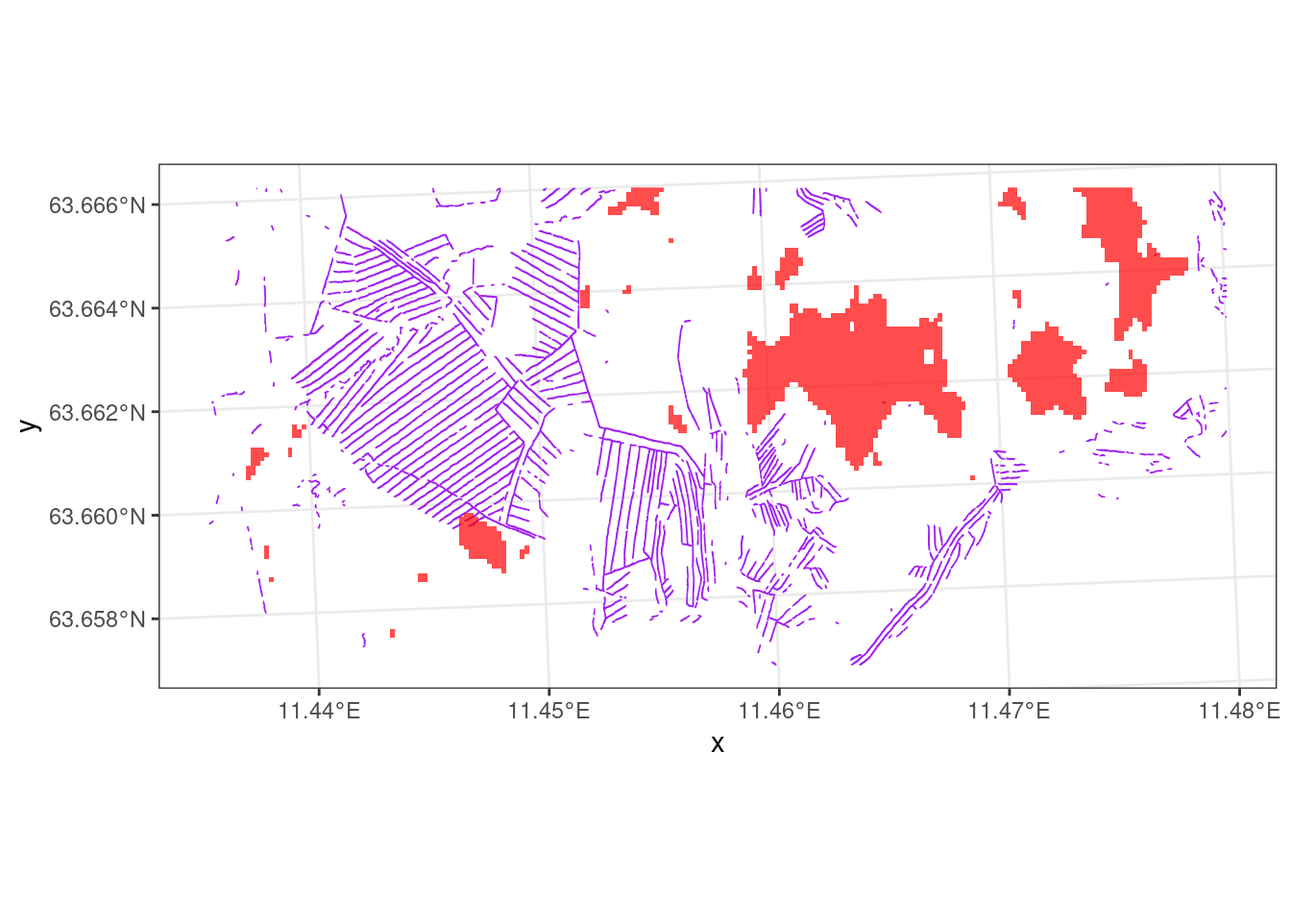
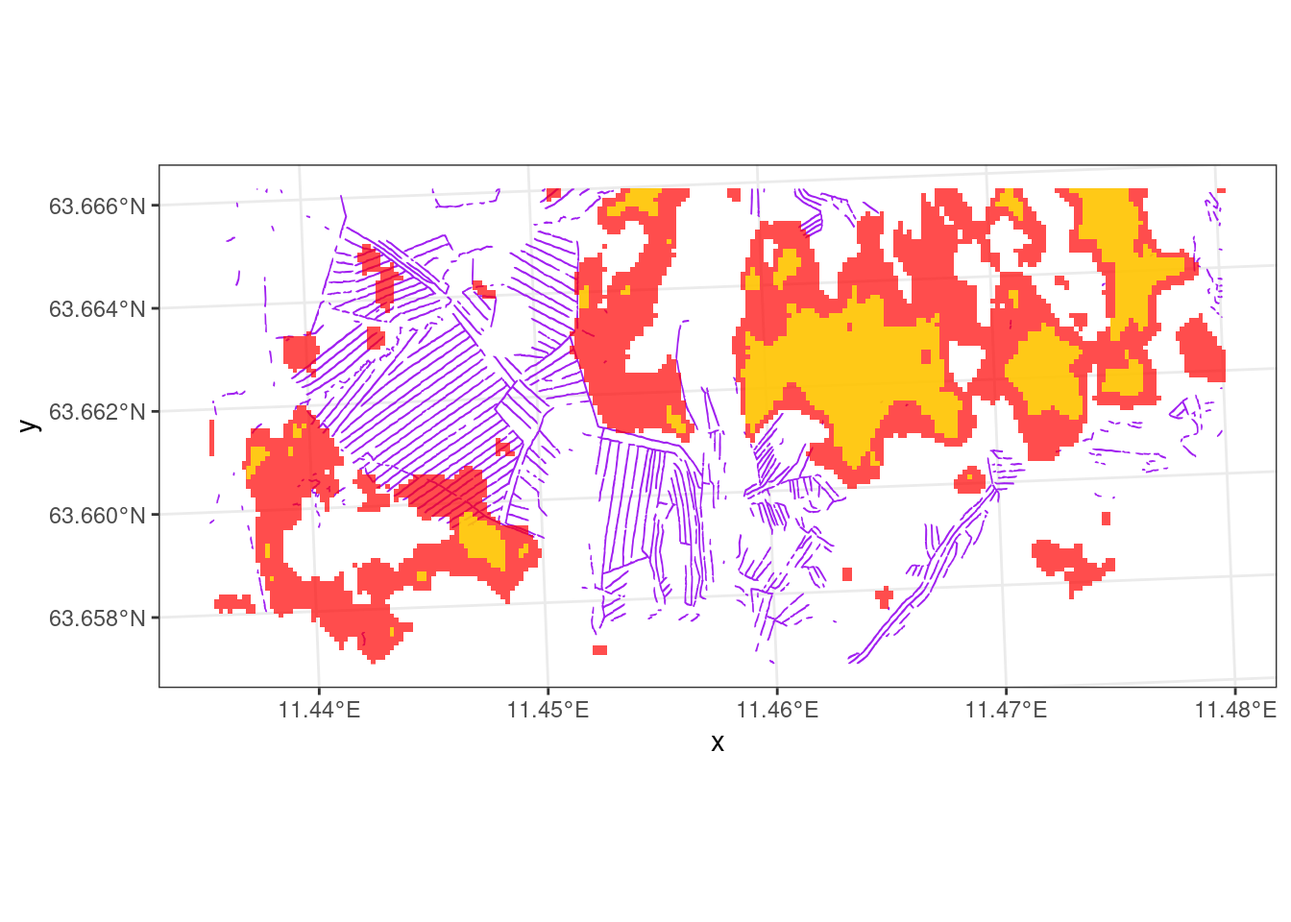
Built site for gh-pages

diff --git a/study-area.html b/study-area.html
@@ -276,20 +276,56 @@ Figure&nbsp;2.1: “Map of study area in Levanger, central Norway, showing trenc
 <span><span class="co"># and exported a section of it as geoTIFF</span></span>
 <span><span class="co"># Raster GBD is not readable in R with GDAL &lt;3.7</span></span>
 <span><span class="va">path</span> <span class="op">&lt;-</span> <span class="st">"P:/41201785_okologisk_tilstand_2022_2023/data/Myrmodell/myrmodell_levanger.tif"</span></span>
-<span><span class="va">mire</span> <span class="op">&lt;-</span> <span class="fu">stars</span><span class="fu">::</span><span class="fu"><a href="https://r-spatial.github.io/stars/reference/read_stars.html">read_stars</a></span><span class="op">(</span><span class="va">path</span><span class="op">)</span> <span class="op">|&gt;</span></span>
+<span><span class="va">mire90</span> <span class="op">&lt;-</span> <span class="fu">stars</span><span class="fu">::</span><span class="fu"><a href="https://r-spatial.github.io/stars/reference/read_stars.html">read_stars</a></span><span class="op">(</span><span class="va">path</span><span class="op">)</span> <span class="op">|&gt;</span></span>
 <span>  <span class="fu">st_crop</span><span class="op">(</span><span class="va">lev_bb</span><span class="op">)</span> <span class="op">|&gt;</span> </span>
 <span>  <span class="fu"><a href="https://rdrr.io/r/stats/setNames.html">setNames</a></span><span class="op">(</span><span class="st">"prob"</span><span class="op">)</span> <span class="op">|&gt;</span></span>
 <span>  <span class="fu">mutate</span><span class="op">(</span>prob <span class="op">=</span> <span class="fu">case_when</span><span class="op">(</span></span>
 <span>    <span class="va">prob</span> <span class="op">&gt;</span> <span class="fl">900</span> <span class="op">~</span> <span class="fl">1</span>,</span>
 <span>    <span class="cn">TRUE</span> <span class="op">~</span> <span class="cn">NA</span></span>
 <span>  <span class="op">)</span><span class="op">)</span></span>
-<span><span class="fu">stars</span><span class="fu">::</span><span class="fu"><a href="https://r-spatial.github.io/stars/reference/write_stars.html">write_stars</a></span><span class="op">(</span><span class="va">mire</span>, <span class="st">"data/mire_levanger_reclassified.tif"</span><span class="op">)</span></span>
-<span><span class="fu"><a href="https://rdrr.io/r/base/readRDS.html">saveRDS</a></span><span class="op">(</span><span class="va">mire</span>, <span class="st">"data/mire_levanger_reclassified.rds"</span><span class="op">)</span></span></code><button title="Copy to Clipboard" class="code-copy-button"><i class="bi"></i></button></pre></div>
+<span><span class="fu">stars</span><span class="fu">::</span><span class="fu"><a href="https://r-spatial.github.io/stars/reference/write_stars.html">write_stars</a></span><span class="op">(</span><span class="va">mire90</span>, <span class="st">"data/mire_levanger_reclassified90.tif"</span><span class="op">)</span></span>
+<span><span class="fu"><a href="https://rdrr.io/r/base/readRDS.html">saveRDS</a></span><span class="op">(</span><span class="va">mire90</span>, <span class="st">"data/mire_levanger_reclassified90.rds"</span><span class="op">)</span></span>
+<span></span>
+<span><span class="va">mire70</span> <span class="op">&lt;-</span> <span class="fu">stars</span><span class="fu">::</span><span class="fu"><a href="https://r-spatial.github.io/stars/reference/read_stars.html">read_stars</a></span><span class="op">(</span><span class="va">path</span><span class="op">)</span> <span class="op">|&gt;</span></span>
+<span>  <span class="fu">st_crop</span><span class="op">(</span><span class="va">lev_bb</span><span class="op">)</span> <span class="op">|&gt;</span> </span>
+<span>  <span class="fu"><a href="https://rdrr.io/r/stats/setNames.html">setNames</a></span><span class="op">(</span><span class="st">"prob"</span><span class="op">)</span> <span class="op">|&gt;</span></span>
+<span>  <span class="fu">mutate</span><span class="op">(</span>prob <span class="op">=</span> <span class="fu">case_when</span><span class="op">(</span></span>
+<span>    <span class="va">prob</span> <span class="op">&gt;</span> <span class="fl">700</span> <span class="op">~</span> <span class="fl">1</span>,</span>
+<span>    <span class="cn">TRUE</span> <span class="op">~</span> <span class="cn">NA</span></span>
+<span>  <span class="op">)</span><span class="op">)</span></span>
+<span><span class="fu">stars</span><span class="fu">::</span><span class="fu"><a href="https://r-spatial.github.io/stars/reference/write_stars.html">write_stars</a></span><span class="op">(</span><span class="va">mire70</span>, <span class="st">"data/mire_levanger_reclassified70.tif"</span><span class="op">)</span></span>
+<span><span class="fu"><a href="https://rdrr.io/r/base/readRDS.html">saveRDS</a></span><span class="op">(</span><span class="va">mire70</span>, <span class="st">"data/mire_levanger_reclassified70.rds"</span><span class="op">)</span></span>
+<span></span>
+<span><span class="va">mire50</span> <span class="op">&lt;-</span> <span class="fu">stars</span><span class="fu">::</span><span class="fu"><a href="https://r-spatial.github.io/stars/reference/read_stars.html">read_stars</a></span><span class="op">(</span><span class="va">path</span><span class="op">)</span> <span class="op">|&gt;</span></span>
+<span>  <span class="fu">st_crop</span><span class="op">(</span><span class="va">lev_bb</span><span class="op">)</span> <span class="op">|&gt;</span> </span>
+<span>  <span class="fu"><a href="https://rdrr.io/r/stats/setNames.html">setNames</a></span><span class="op">(</span><span class="st">"prob"</span><span class="op">)</span> <span class="op">|&gt;</span></span>
+<span>  <span class="fu">mutate</span><span class="op">(</span>prob <span class="op">=</span> <span class="fu">case_when</span><span class="op">(</span></span>
+<span>    <span class="va">prob</span> <span class="op">&gt;</span> <span class="fl">500</span> <span class="op">~</span> <span class="fl">1</span>,</span>
+<span>    <span class="cn">TRUE</span> <span class="op">~</span> <span class="cn">NA</span></span>
+<span>  <span class="op">)</span><span class="op">)</span></span>
+<span><span class="fu">stars</span><span class="fu">::</span><span class="fu"><a href="https://r-spatial.github.io/stars/reference/write_stars.html">write_stars</a></span><span class="op">(</span><span class="va">mire50</span>, <span class="st">"data/mire_levanger_reclassified50.tif"</span><span class="op">)</span></span>
+<span><span class="fu"><a href="https://rdrr.io/r/base/readRDS.html">saveRDS</a></span><span class="op">(</span><span class="va">mire50</span>, <span class="st">"data/mire_levanger_reclassified50.rds"</span><span class="op">)</span></span>
+<span></span>
+<span><span class="va">mire10</span> <span class="op">&lt;-</span> <span class="fu">stars</span><span class="fu">::</span><span class="fu"><a href="https://r-spatial.github.io/stars/reference/read_stars.html">read_stars</a></span><span class="op">(</span><span class="va">path</span><span class="op">)</span> <span class="op">|&gt;</span></span>
+<span>  <span class="fu">st_crop</span><span class="op">(</span><span class="va">lev_bb</span><span class="op">)</span> <span class="op">|&gt;</span> </span>
+<span>  <span class="fu"><a href="https://rdrr.io/r/stats/setNames.html">setNames</a></span><span class="op">(</span><span class="st">"prob"</span><span class="op">)</span> <span class="op">|&gt;</span></span>
+<span>  <span class="fu">mutate</span><span class="op">(</span>prob <span class="op">=</span> <span class="fu">case_when</span><span class="op">(</span></span>
+<span>    <span class="va">prob</span> <span class="op">&gt;</span> <span class="fl">100</span> <span class="op">~</span> <span class="fl">1</span>,</span>
+<span>    <span class="cn">TRUE</span> <span class="op">~</span> <span class="cn">NA</span></span>
+<span>  <span class="op">)</span><span class="op">)</span></span>
+<span><span class="fu">stars</span><span class="fu">::</span><span class="fu"><a href="https://r-spatial.github.io/stars/reference/write_stars.html">write_stars</a></span><span class="op">(</span><span class="va">mire10</span>, <span class="st">"data/mire_levanger_reclassified10.tif"</span><span class="op">)</span></span>
+<span><span class="fu"><a href="https://rdrr.io/r/base/readRDS.html">saveRDS</a></span><span class="op">(</span><span class="va">mire10</span>, <span class="st">"data/mire_levanger_reclassified10.rds"</span><span class="op">)</span></span></code><button title="Copy to Clipboard" class="code-copy-button"><i class="bi"></i></button></pre></div>
 </details>
 </div>
 <div class="cell">
-<details class="code-fold"><summary>Read mire data</summary><div class="sourceCode" id="cb9"><pre class="downlit sourceCode r code-with-copy"><code class="sourceCode R"><span><span class="va">mire</span> <span class="op">&lt;-</span> <span class="fu"><a href="https://rdrr.io/r/base/readRDS.html">readRDS</a></span><span class="op">(</span><span class="st">"data/mire_levanger_reclassified.rds"</span><span class="op">)</span></span>
-<span><span class="va">mire_crop</span> <span class="op">&lt;-</span> <span class="va">mire</span> <span class="op">|&gt;</span></span>
+<details class="code-fold"><summary>Read mire data</summary><div class="sourceCode" id="cb9"><pre class="downlit sourceCode r code-with-copy"><code class="sourceCode R"><span><span class="co">#90% probability</span></span>
+<span><span class="va">mire90</span> <span class="op">&lt;-</span> <span class="fu"><a href="https://rdrr.io/r/base/readRDS.html">readRDS</a></span><span class="op">(</span><span class="st">"data/mire_levanger_reclassified90.rds"</span><span class="op">)</span></span>
+<span><span class="va">mire90_crop</span> <span class="op">&lt;-</span> <span class="va">mire90</span> <span class="op">|&gt;</span></span>
+<span>  <span class="fu">st_crop</span><span class="op">(</span><span class="fu">st_bbox</span><span class="op">(</span><span class="va">lev_crop</span><span class="op">)</span><span class="op">)</span></span>
+<span></span>
+<span><span class="co">#10% probability</span></span>
+<span><span class="va">mire10</span> <span class="op">&lt;-</span> <span class="fu"><a href="https://rdrr.io/r/base/readRDS.html">readRDS</a></span><span class="op">(</span><span class="st">"data/mire_levanger_reclassified10.rds"</span><span class="op">)</span></span>
+<span><span class="va">mire10_crop</span> <span class="op">&lt;-</span> <span class="va">mire10</span> <span class="op">|&gt;</span></span>
 <span>  <span class="fu">st_crop</span><span class="op">(</span><span class="fu">st_bbox</span><span class="op">(</span><span class="va">lev_crop</span><span class="op">)</span><span class="op">)</span></span></code><button title="Copy to Clipboard" class="code-copy-button"><i class="bi"></i></button></pre></div>
 </details>
 </div>
@@ -298,14 +334,21 @@ Figure&nbsp;2.1: “Map of study area in Levanger, central Norway, showing trenc
 <span>  <span class="fu">geom_sf</span><span class="op">(</span>data <span class="op">=</span> <span class="va">lev_crop</span>,</span>
 <span>          fill <span class="op">=</span> <span class="st">"purple"</span>,</span>
 <span>          color <span class="op">=</span> <span class="st">"purple"</span><span class="op">)</span> <span class="op">+</span></span>
-<span>  <span class="fu">geom_stars</span><span class="op">(</span>data <span class="op">=</span> <span class="va">mire_crop</span>,</span>
+<span>  <span class="fu">geom_stars</span><span class="op">(</span>data <span class="op">=</span> <span class="va">mire10_crop</span>,</span>
 <span>             downsample <span class="op">=</span> <span class="fl">0</span>,</span>
 <span>             fill <span class="op">=</span> <span class="st">"red"</span>,</span>
+<span>             na.action <span class="op">=</span> <span class="va">na.omit</span>,</span>
+<span>             alpha<span class="op">=</span><span class="fl">.7</span><span class="op">)</span><span class="op">+</span></span>
+<span>  <span class="fu">geom_stars</span><span class="op">(</span>data <span class="op">=</span> <span class="va">mire90_crop</span>,</span>
+<span>             downsample <span class="op">=</span> <span class="fl">0</span>,</span>
+<span>             fill <span class="op">=</span> <span class="st">"yellow"</span>,</span>
 <span>             na.action <span class="op">=</span> <span class="va">na.omit</span>,</span>
 <span>             alpha<span class="op">=</span><span class="fl">.7</span><span class="op">)</span><span class="op">+</span></span>
 <span>  <span class="fu">theme_bw</span><span class="op">(</span><span class="op">)</span></span></code><button title="Copy to Clipboard" class="code-copy-button"><i class="bi"></i></button></pre></div>
 </details><div class="cell-output cell-output-stderr">
 <pre><code>Warning: Raster pixels are placed at uneven horizontal intervals and will be shifted
+ℹ Consider using `geom_tile()` instead.
+Raster pixels are placed at uneven horizontal intervals and will be shifted
 ℹ Consider using `geom_tile()` instead.
 Raster pixels are placed at uneven horizontal intervals and will be shifted
 ℹ Consider using `geom_tile()` instead.</code></pre>
@@ -316,7 +359,7 @@ Raster pixels are placed at uneven horizontal intervals and will be shifted
 <img src="study-area_files/figure-html/fig-map2-1.png" class="img-fluid figure-img" width="672">
 </div>
 <figcaption class="quarto-float-caption-bottom quarto-float-caption quarto-float-fig" id="fig-map2-caption-0ceaefa1-69ba-4598-a22c-09a6ac19f8ca">
-Figure&nbsp;2.2: “Zoomed in version of the previsous map showing systematic trenching, but also more sporadic trenches that might be errors in the model. The red areas are open mires. Note that most of the trenches are located in other nature types, mosty forests.”
+Figure&nbsp;2.2: “Zoomed in version of the previsous map showing systematic trenching, but also more sporadic trenches that might be errors in the model. The red areas are open mires with 10% probability. Yellow areas are mires with 90% probability. From areal photos, the 10% probability seem to match best. Note in any case that most of the trenches are located in other nature types, mosty forests.”
 </figcaption></figure>
 </div>
 </div>

diff --git a/metrics.html b/metrics.html
@@ -21,7 +21,27 @@ ul.task-list li input[type="checkbox"] {
   margin: 0 0.8em 0.2em -1em; /* quarto-specific, see https://github.com/quarto-dev/quarto-cli/issues/4556 */ 
   vertical-align: middle;
 }
-</style>
+/* CSS for citations */
+div.csl-bib-body { }
+div.csl-entry {
+  clear: both;
+  margin-bottom: 0em;
+}
+.hanging-indent div.csl-entry {
+  margin-left:2em;
+  text-indent:-2em;
+}
+div.csl-left-margin {
+  min-width:2em;
+  float:left;
+}
+div.csl-right-inline {
+  margin-left:2em;
+  padding-left:1em;
+}
+div.csl-indent {
+  margin-left: 2em;
+}</style>
 
 
 <script src="site_libs/quarto-nav/quarto-nav.js"></script>
@@ -174,7 +194,11 @@ ul.task-list li input[type="checkbox"] {
    
   <ul>
   <li><a href="#sec-fbm" id="toc-sec-fbm" class="nav-link active" data-scroll-target="#sec-fbm"><span class="header-section-number">4.1</span> Frequency-based metrics</a></li>
-  <li><a href="#length-based-metrics" id="toc-length-based-metrics" class="nav-link" data-scroll-target="#length-based-metrics"><span class="header-section-number">4.2</span> Length based metrics</a></li>
+  <li><a href="#length-based-metrics" id="toc-length-based-metrics" class="nav-link" data-scroll-target="#length-based-metrics"><span class="header-section-number">4.2</span> Length based metrics</a>
+  <ul class="collapse">
+  <li><a href="#area-based-metric" id="toc-area-based-metric" class="nav-link" data-scroll-target="#area-based-metric"><span class="header-section-number">4.2.1</span> Area-based metric</a></li>
+  </ul></li>
+  <li><a href="#scalability" id="toc-scalability" class="nav-link" data-scroll-target="#scalability"><span class="header-section-number">4.3</span> Scalability</a></li>
   </ul>
 <div class="toc-actions"><ul><li><a href="https://github.com/NINAnor/mire-trenching/edit/main/metrics.qmd" class="toc-action"><i class="bi bi-github"></i>Edit this page</a></li></ul></div></nav>
     </div>
@@ -206,11 +230,12 @@ ul.task-list li input[type="checkbox"] {
 <li>interpretable</li>
 <li>updatable</li>
 <li>area explicit</li>
+<li>scalable (optional)</li>
 </ul>
 <p>It can be based on for example on some variation using the the length or frequency of trenches. The area of trenches is less suitable, as trenches are in reality linear elements even though we represent them here as polygons. The polygons could be turned into line elements, for example by finding the central lines using ET Geowizards. However, this is computationally heavy, and we think that the length of the trenches can be reasonably approximated using half the circumference, minus a small penalty. The density of trenches is also less suitable as the individual polygons are somewhat arbitrarily separated.</p>
 <section id="sec-fbm" class="level2" data-number="4.1">
 <h2 data-number="4.1" class="anchored" data-anchor-id="sec-fbm"><span class="header-section-number">4.1</span> Frequency-based metrics</h2>
-<p>The frequency of trenches can be measured in many ways and at amny different scales. One way is to use the NiN variable called <code>7TK</code> and the measurement scale <code>A4b</code> (ref). This approach consists of gridding the entire study region into 10𝖷10 m cells, and then categorizing the cells as having or not having trenches. The frequency of grid cells with trenches determines the variable value.</p>
+<p>The frequency of trenches can be measured in many ways and at amny different scales. One way is to use the NiN variable called <code>7TK</code> and the measurement scale <code>A4b</code> <span class="citation" data-cites="runehalvorsen2019">Rune Halvorsen and Harald Bratli (<a href="#ref-runehalvorsen2019" role="doc-biblioref">2019</a>)</span> . This approach consists of gridding the entire study region into 10𝖷10 m cells, and then categorizing the cells as having or not having trenches. The frequency of grid cells with trenches determines the variable value.</p>
 <p>The upper and lower reference values for the variable is probably best defined using the natural value of 0% and 100%, respectively. However, the rescaling of the variable into an indicator should probably follow some non-linear function, potentially aided by a threshold value representing the value of the variable that defines the separation distinction good and bad ecosystem condition (ref). Expert opinion, possibly aided by real word data or visual aids such as areal photos of areas with different variable value, could be used to set this threshold value.</p>
 <p>A different option for a frequency-based metric include counting the proportion of mire units (e.g.&nbsp;hydrological units) that are affected by trenching. This approach require that we know the population of mire units, or that we have a good, balanced sample of such units, to base our metric on. We do not have this currently. Secondly, the metric, as is it described here, becomes quite sensible to errors in the trenching model, and would probably require setting some (arbitrary) threshold value for the <em>severity</em> of trenching on each mire unit.</p>
 </section>
@@ -218,8 +243,22 @@ ul.task-list li input[type="checkbox"] {
 <h2 data-number="4.2" class="anchored" data-anchor-id="length-based-metrics"><span class="header-section-number">4.2</span> Length based metrics</h2>
 <p>As describes earlier, the length of trenches, and therefore also the accumulated length for any given area, may be approximated by using half the circumference of the trenching polygons (minus some small penalty). This metric is very simple and easily interpretable. The metric is also ecologically relevant, as the length of trenches is probably among the metrices that best explain the impact of trenching on the landscape (in combination with the depth of the trenches, but this is not something we have data on currently).</p>
 <p>The upper reference value must be defined as 0 m of trenches. The lower reference value is not obvious, nor the threshold value. These cold be defined using expert opinion, as described for <a href="#sec-fbm" class="quarto-xref"><span>Section 4.1</span></a>.</p>
+<section id="area-based-metric" class="level3" data-number="4.2.1">
+<h3 data-number="4.2.1" class="anchored" data-anchor-id="area-based-metric"><span class="header-section-number">4.2.1</span> Area-based metric</h3>
+<p>The area affected by trenching can perhaps be estimated by adding a buffer on the trenching polygons. The area affected by trenching as a proportion of the total mire area is a nice and simple concept for an indicator. The challenge is how to define the buffer. 10 m buffers have been used in the past. However, the size of the effect from a trench decreases non-linearly from the center of the ditch, and the length of the effect zone will depend a lot on the local typography. Ditches at the bottom of sloping mires will be more effective at draining water from the mire than a trench located near the top. Perhaps information about sloe could be included in the calculation of buffer widths?</p>
+</section>
+</section>
+<section id="scalability" class="level2" data-number="4.3">
+<h2 data-number="4.3" class="anchored" data-anchor-id="scalability"><span class="header-section-number">4.3</span> Scalability</h2>
+<p>The metric chosen to inform the indicator on trenching should idealy be scalable, meaning it can be calculated or interpreted at different scale. The indicator might be useful for regional assessment of wetland condition, as well as in local or project scale assessment, for example in association with environmental impact assessments for new building projects.</p>
+<p>I believe the three methods describe above all all scalable and could be used at local scales as well as regional scale (which is the main focus here).</p>
 
 
+<div id="refs" class="references csl-bib-body hanging-indent" data-entry-spacing="0" role="list">
+<div id="ref-runehalvorsen2019" class="csl-entry" role="listitem">
+Rune Halvorsen, and Harald Bratli. 2019. Dokumentasjon av NiN versjon 2.2 tilrettelagt for praktisk naturkartlegging: Utvalgte variabler fra beskrivelsessystemet. <span></span> natur i norge, artikkel 11 (versjon 2.2.0).
+</div>
+</div>
 </section>
 
 </main> <!-- /main -->

diff --git a/delineation.html b/delineation.html
@@ -182,7 +182,7 @@ ul.task-list li input[type="checkbox"] {
 
 <header id="title-block-header" class="quarto-title-block default">
 <div class="quarto-title">
-<h1 class="title"><span class="chapter-number">3</span>&nbsp; <span class="chapter-title">Delineation</span></h1>
+<h1 class="title"><span id="sec-delineation" class="quarto-section-identifier"><span class="chapter-number">3</span>&nbsp; <span class="chapter-title">Delineation</span></span></h1>
 </div>
 
 
@@ -201,8 +201,21 @@ ul.task-list li input[type="checkbox"] {
 
 <section id="the-importance-of-the-ecosystem-accounting-area" class="level2" data-number="3.1">
 <h2 data-number="3.1" class="anchored" data-anchor-id="the-importance-of-the-ecosystem-accounting-area"><span class="header-section-number">3.1</span> The importance of the ecosystem accounting area</h2>
-<p>We presented a study area of <code>r round(myx*myy/10^6)</code> km<sup>2</sup>. However, for the purpose of an ecosystem condition account or assessment, this area needs to be partitioned into unique and non-overlapping ecosystems, and our indicator needs to address the ecosystem condition the target ecosystem explicitly. The ecosystem that this indicator is aimed at is wetlands, or <em>våtmark</em> in Norwegian. We therefore need to mask our spatial data at some stage in order to exclude trenches identified in other ecosystems. However, this is problematic for several reasons. First, we do not have an official ecosystem delineation map, and it is not yet clear if the ecosystem should be defined as all types of wetlands, or just open wetlands. In the case of the latter, we have a quite good ecosystem map that we can use. But in doing so, we automatically exclude wetlands, or previous wetlands, that have become forested due to the lowered water table that comes from trenching. In other words, we exclude the areas that are in the worst condition.</p>
-<p>This is a well known issue in ecosystem accounting (ref Jacobson). In the following we decide to strictly follow the UN standard for ecosystem accounting and only focus on the open mires. However, in the future, if the target ecosystem becomes defined as to include forested mires, then it is not a problem to update this indicator to include such areas as well.</p>
+<p>We presented a study area that is practically square (<a href="study-area.html#fig-map1" class="quarto-xref">Figure&nbsp;<span>2.1</span></a>). However, for the purpose of an ecosystem condition account or assessment, this area needs to be partitioned into unique and non-overlapping ecosystems, and our indicator needs to address the ecosystem condition the target ecosystem explicitly. The ecosystem that this indicator is aimed at is wetlands, or <em>våtmark</em> in Norwegian.</p>
+<p>We might therefore need to mask our spatial data at some stage in order to exclude trenches identified in other ecosystems. However, this is problematic for several reasons.</p>
+<p>First, we do not have an official ecosystem delineation map, and it is not yet clear if the ecosystem should be defined as all types of wetlands, or just open wetlands. In the case of the latter, we have a quite good ecosystem map that we can use (<a href="study-area.html#fig-map2" class="quarto-xref">Figure&nbsp;<span>2.2</span></a>). Alternatively, we can use things like AR5, or a combination of the two.</p>
+<p>Secondly, by excluding everything that is no (open) mire, we automatically exclude wetlands, or previous wetlands, that have become forested due to the lowered water table that comes from trenching. In other words, we exclude the areas that are in the worst condition. From <a href="study-area.html#fig-map2" class="quarto-xref">Figure&nbsp;<span>2.2</span></a> we can see that this is a very common scenario.</p>
+<p>Thirdly, when it comes to updating the indicator in the future (see <a href="how-to-update.html" class="quarto-xref"><span>Chapter 5</span></a>), we will be in the case that more and more trenched wetland becomes classified as other nature types, mainly forests, because that is what happends when you trench a mire. As a consequence, the indicator values will look better and better over time, reflection the land use change and the associated loss of the areas in worst condition.</p>
+<p>This is a well known issue in ecosystem accounting (ref Jacobson).</p>
+<p>We may chose to</p>
+<ol type="1">
+<li><p>strictly follow the UN standard for ecosystem accounting and only focus on the open mires (and/or AR5 mires).</p></li>
+<li><p>mask the data against both mires and forests</p></li>
+<li><p>no masking, calculating the variable for all areas regardless of nature type</p></li>
+</ol>
+<p>The third option is perhaps not ideal due to significant model errors, for example that the trenches map includes road ditches, agricultural drainage ditches, and ditches in mountains or other areas that have never been wetlands.</p>
+<p>The first option is the one that best fit the accounting standards. The suggested way to overcome the <em>false message</em> that wetlands may develop better ecosystem condition just because the worst areas become classified as forests, is to always look at the condition assessment in light of, and at the same time as, an ecosystem extent account. Then the loss of wetland area will still make red flags, even though it is documented in the extent account and not the condition account.</p>
+<p>It can be very tempting to go for option 2, but as you can see, the consequent double-counting of the same process then becomes unavoidable. We will therefore go for option 1 here, using the open mire delineation map as our ecosystem assets. However, in the future, if the target ecosystem becomes defined as to include forested mires, then it is not a problem to update this indicator to include such areas as well.</p>
 
 
 </section>

diff --git a/how-to-update.html b/how-to-update.html
@@ -175,7 +175,7 @@ ul.task-list li input[type="checkbox"] {
 
 <header id="title-block-header" class="quarto-title-block default">
 <div class="quarto-title">
-<h1 class="title"><span class="chapter-number">5</span>&nbsp; <span class="chapter-title">Options for updating the trenching indicator</span></h1>
+<h1 class="title"><span id="sec-update" class="quarto-section-identifier"><span class="chapter-number">5</span>&nbsp; <span class="chapter-title">Options for updating the trenching indicator</span></span></h1>
 </div>
 
 
@@ -192,7 +192,13 @@ ul.task-list li input[type="checkbox"] {
 </header>
 
 
-<p>…</p>
+<p>The trenches map is based on LiDAR which is a dataset we do not assume to become updated in the near future. However, trenches can be assumed to not go away by themselves, so this might not be such an insurmountable issue. But updating the indicator needs to rely on some other information with a higher turnover. We have two candidates.</p>
+<ol type="1">
+<li><p>Length of trenches restored (or area affected by this restoration)</p></li>
+<li><p>Change in ecosystem extent</p></li>
+</ol>
+<p>The second option will need to be part of the updating procedure in any case. The effect of this is explained in <a href="delineation.html" class="quarto-xref"><span>Chapter 3</span></a>.</p>
+<p>Option 1 can be informed by an existing dataset on mire restoration in Norway, managed by the Norwegian Environment Agency. https://services.arcgis.com/2JlC1JM9VNKvqb4F/arcgis/rest/services/Myrrestaurering_Groft_Torvtak_3_visning/FeatureServer There are no restored trenches in our study area, and in general, the area or length restored is minuscule compared to the areas or length that are trenched. However, this data might still need to go into the updating protocol. The data can probably be downloaded via an API from AGOL.</p>
 
 
 

diff --git a/index.html b/index.html
@@ -7,7 +7,7 @@
 <meta name="viewport" content="width=device-width, initial-scale=1.0, user-scalable=yes">
 
 <meta name="author" content="Anders Kolstad">
-<meta name="dcterms.date" content="2024-08-08">
+<meta name="dcterms.date" content="2024-08-09">
 <meta name="description" content="An investigating into different consepts for an ecosystem condition indicator based on a map of mire trenches i Norway.">
 
 <title>Mire trenching indicator</title>
@@ -205,7 +205,7 @@ ul.task-list li input[type="checkbox"] {
     <div>
     <div class="quarto-title-meta-heading">Published</div>
     <div class="quarto-title-meta-contents">
-      <p class="date">August 8, 2024</p>
+      <p class="date">August 9, 2024</p>
     </div>
   </div>
   
